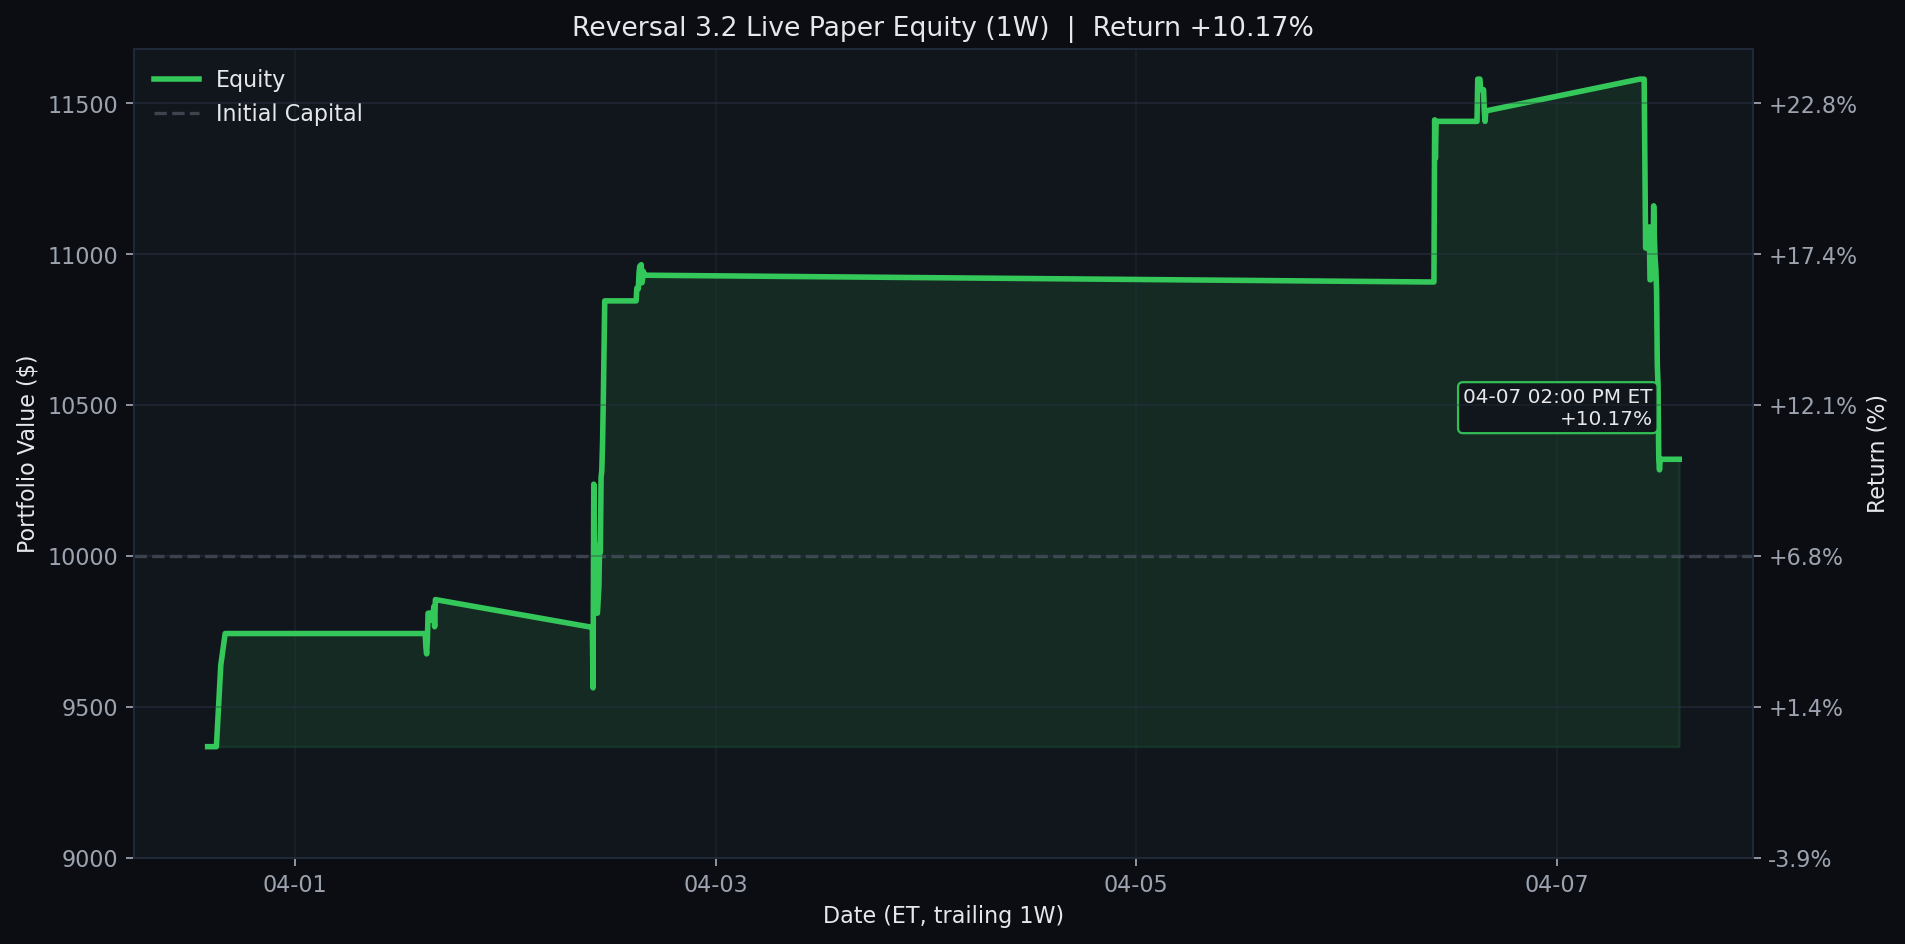
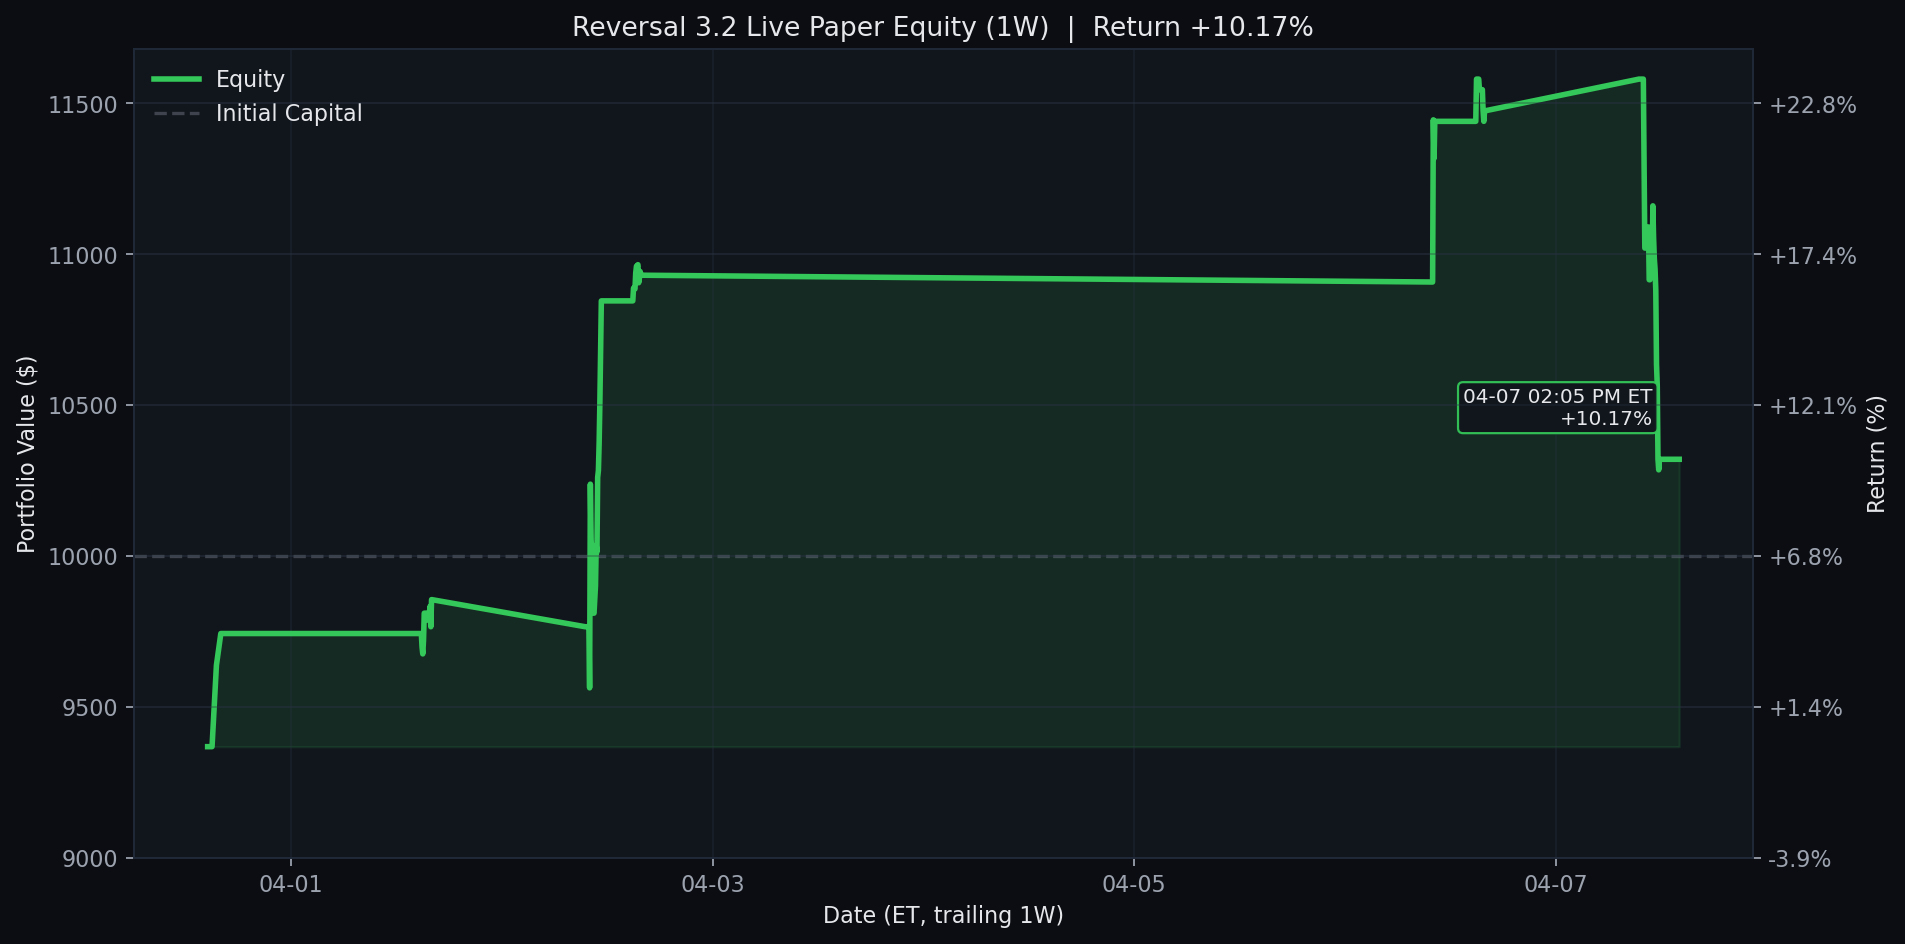
Update Reversal 3.2 live paper test 2026-04-07 14:05 ET

diff --git a/results/reversal_3_2_live/README.md b/results/reversal_3_2_live/README.md
@@ -1,6 +1,6 @@
 # Reversal 3.2 Live Paper Test
 
-Last updated (ET): `2026-04-07 14:00:04 EDT`
+Last updated (ET): `2026-04-07 14:05:03 EDT`
 Last processed slot: `manage_1400`
 
 ## Active Configuration
@@ -40,24 +40,25 @@ ticker    contract_symbol entry_trade_date_et exit_trade_date_et  entry_option_p
 
 ```text
 ticker  success_rate_%  matched_signals  current_drop_%  target_rebound_$  target_price  rolling_sigma_20d_%  call_candidate
-  MRVL           97.67               43            0.55              0.42        109.33                70.84            True
-  NVDA           93.33               30            0.98              1.22        177.12                33.70            True
-  COST           92.86               14            1.07              7.59       1015.30                13.04            True
-  UPRO           91.18               34            0.97              0.69        100.45                53.86            True
-  PCAR           90.24               41            0.55              0.46        118.12                21.97            True
-   LIN           90.00               10            1.48              5.19        497.25                19.02            True
-   CSX           89.66               29            0.51              0.15         41.42                24.91            True
-  ABNB           89.29               28            1.52              1.35        126.23                36.80            True
-  CDNS           89.13               46            0.53              1.03        278.95                25.26            True
-  ASML           88.89               36            0.66              6.01       1301.43                47.16            True
-  GILD           88.46               26            0.76              0.75        139.81                20.18            True
-  FAST           88.00               25            1.02              0.33         45.73                20.98            True
+  MRVL           97.56               41            0.66              0.50        109.29                70.84            True
+  NVDA           93.10               29            1.00              1.24        177.11                33.70            True
+  COST           92.86               14            1.03              7.32       1015.41                13.04            True
+  CDNS           91.11               45            0.62              1.22        278.87                25.26            True
+  UPRO           90.62               32            1.15              0.81        100.39                53.86            True
+   LIN           90.00               10            1.45              5.06        497.30                19.02            True
+  PCAR           89.19               37            0.68              0.57        118.08                21.97            True
+  ORLY           88.57               35            0.74              0.48         91.93                23.11            True
+  ASML           88.57               35            0.68              6.19       1301.36                47.16            True
+  ABNB           88.46               26            1.57              1.40        126.21                36.80            True
+   KDP           88.24               17            0.70              0.13         25.65                20.32            True
+  VRTX           87.50               40            0.62              1.89        433.49                40.01            True
 ```
 
 ## Recent Events
 
 ```text
                     timestamp_et        slot   event_type                          detail
+2026-04-07T14:05:03.892395-04:00 manage_1400 slot_skipped {"reason": "already_processed"}
 2026-04-07T14:00:04.896209-04:00 manage_1400 slot_skipped {"reason": "already_processed"}
 2026-04-07T13:55:00.552170-04:00 manage_1400 slot_skipped {"reason": "already_processed"}
 2026-04-07T13:40:00.942700-04:00 manage_1330 slot_skipped {"reason": "already_processed"}
@@ -67,7 +68,6 @@ ticker  success_rate_%  matched_signals  current_drop_%  target_rebound_$  targe
 2026-04-07T13:10:04.926634-04:00 manage_1300 slot_skipped {"reason": "already_processed"}
 2026-04-07T13:05:02.889424-04:00 manage_1300 slot_skipped {"reason": "already_processed"}
 2026-04-07T13:00:02.895617-04:00 manage_1300 slot_skipped {"reason": "already_processed"}
-2026-04-07T12:55:00.916656-04:00 manage_1300 slot_skipped {"reason": "already_processed"}
 ```
 
 ## Equity Curves
@@ -77,20 +77,20 @@ Each chart is generated from the same live equity series with no-lookahead marks
 <details>
 <summary><strong>1D</strong></summary>
 
-![Reversal 3.2 Live Equity 1D](../../assets/reversal_3_2_live_equity_1d.png?v=20260407140004)
+![Reversal 3.2 Live Equity 1D](../../assets/reversal_3_2_live_equity_1d.png?v=20260407140503)
 
 </details>
 
 <details open>
 <summary><strong>1W</strong></summary>
 
-![Reversal 3.2 Live Equity 1W](../../assets/reversal_3_2_live_equity.png?v=20260407140004)
+![Reversal 3.2 Live Equity 1W](../../assets/reversal_3_2_live_equity.png?v=20260407140503)
 
 </details>
 
 <details>
 <summary><strong>1M</strong></summary>
 
-![Reversal 3.2 Live Equity 1M](../../assets/reversal_3_2_live_equity_1m.png?v=20260407140004)
+![Reversal 3.2 Live Equity 1M](../../assets/reversal_3_2_live_equity_1m.png?v=20260407140503)
 
 </details>

diff --git a/README.md b/README.md
@@ -3,7 +3,7 @@
 <!-- reversal-3.2-live:start -->
 ## Reversal 3.2 Live Paper Test
 
-- Last updated (ET): `2026-04-07 14:00:04 EDT`
+- Last updated (ET): `2026-04-07 14:05:03 EDT`
 - Equity: `$10,320.00` | Realized: `$320.00` | Unrealized: `$0.00` | Open positions: `0`
 - Today closed trades: `1`
 - Current slot: `manage_1400`
@@ -17,21 +17,21 @@ _None_
 <details>
 <summary><strong>1D</strong></summary>
 
-![Reversal 3.2 Live Equity 1D](assets/reversal_3_2_live_equity_1d.png?v=20260407140004)
+![Reversal 3.2 Live Equity 1D](assets/reversal_3_2_live_equity_1d.png?v=20260407140503)
 
 </details>
 
 <details open>
 <summary><strong>1W</strong></summary>
 
-![Reversal 3.2 Live Equity 1W](assets/reversal_3_2_live_equity.png?v=20260407140004)
+![Reversal 3.2 Live Equity 1W](assets/reversal_3_2_live_equity.png?v=20260407140503)
 
 </details>
 
 <details>
 <summary><strong>1M</strong></summary>
 
-![Reversal 3.2 Live Equity 1M](assets/reversal_3_2_live_equity_1m.png?v=20260407140004)
+![Reversal 3.2 Live Equity 1M](assets/reversal_3_2_live_equity_1m.png?v=20260407140503)
 
 </details>
 
